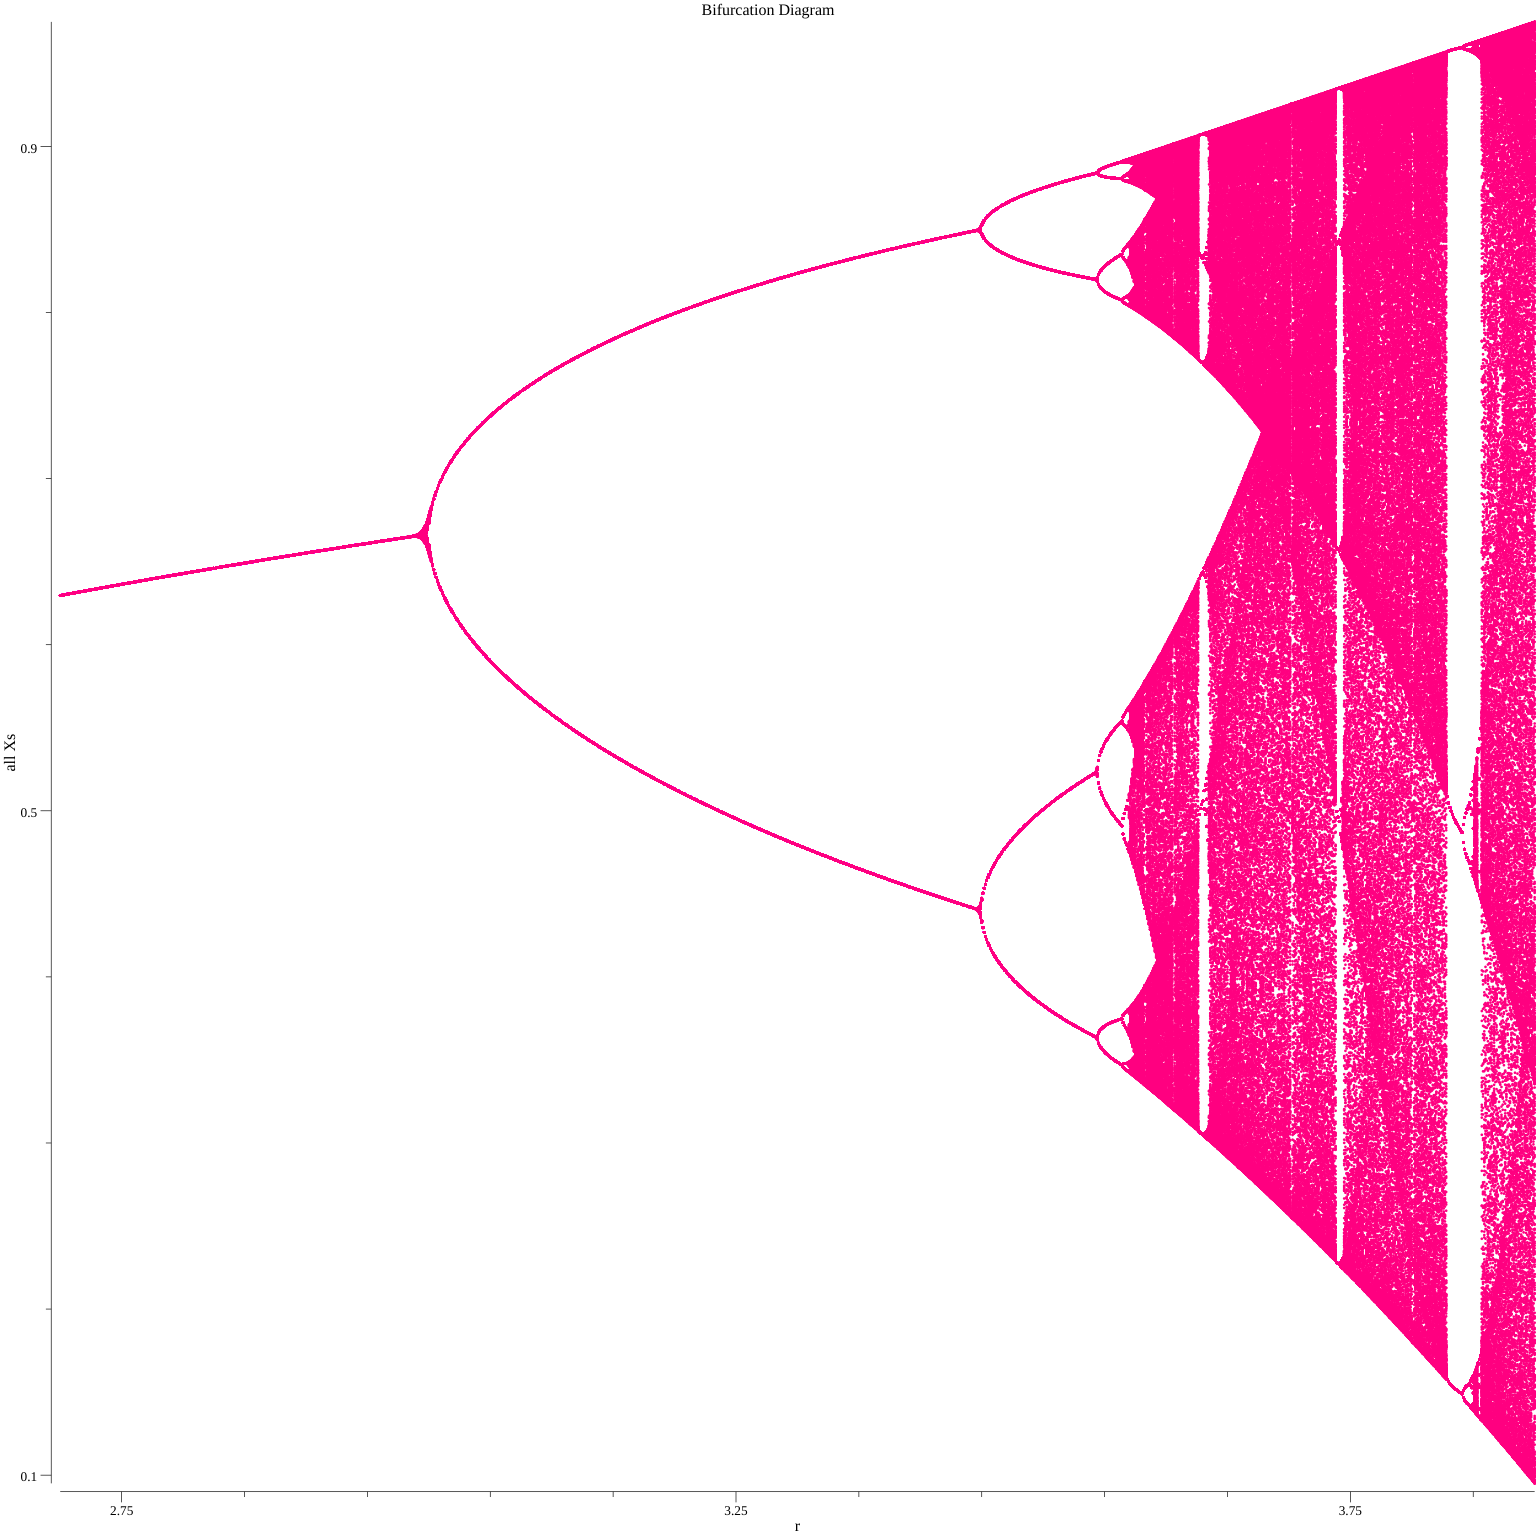
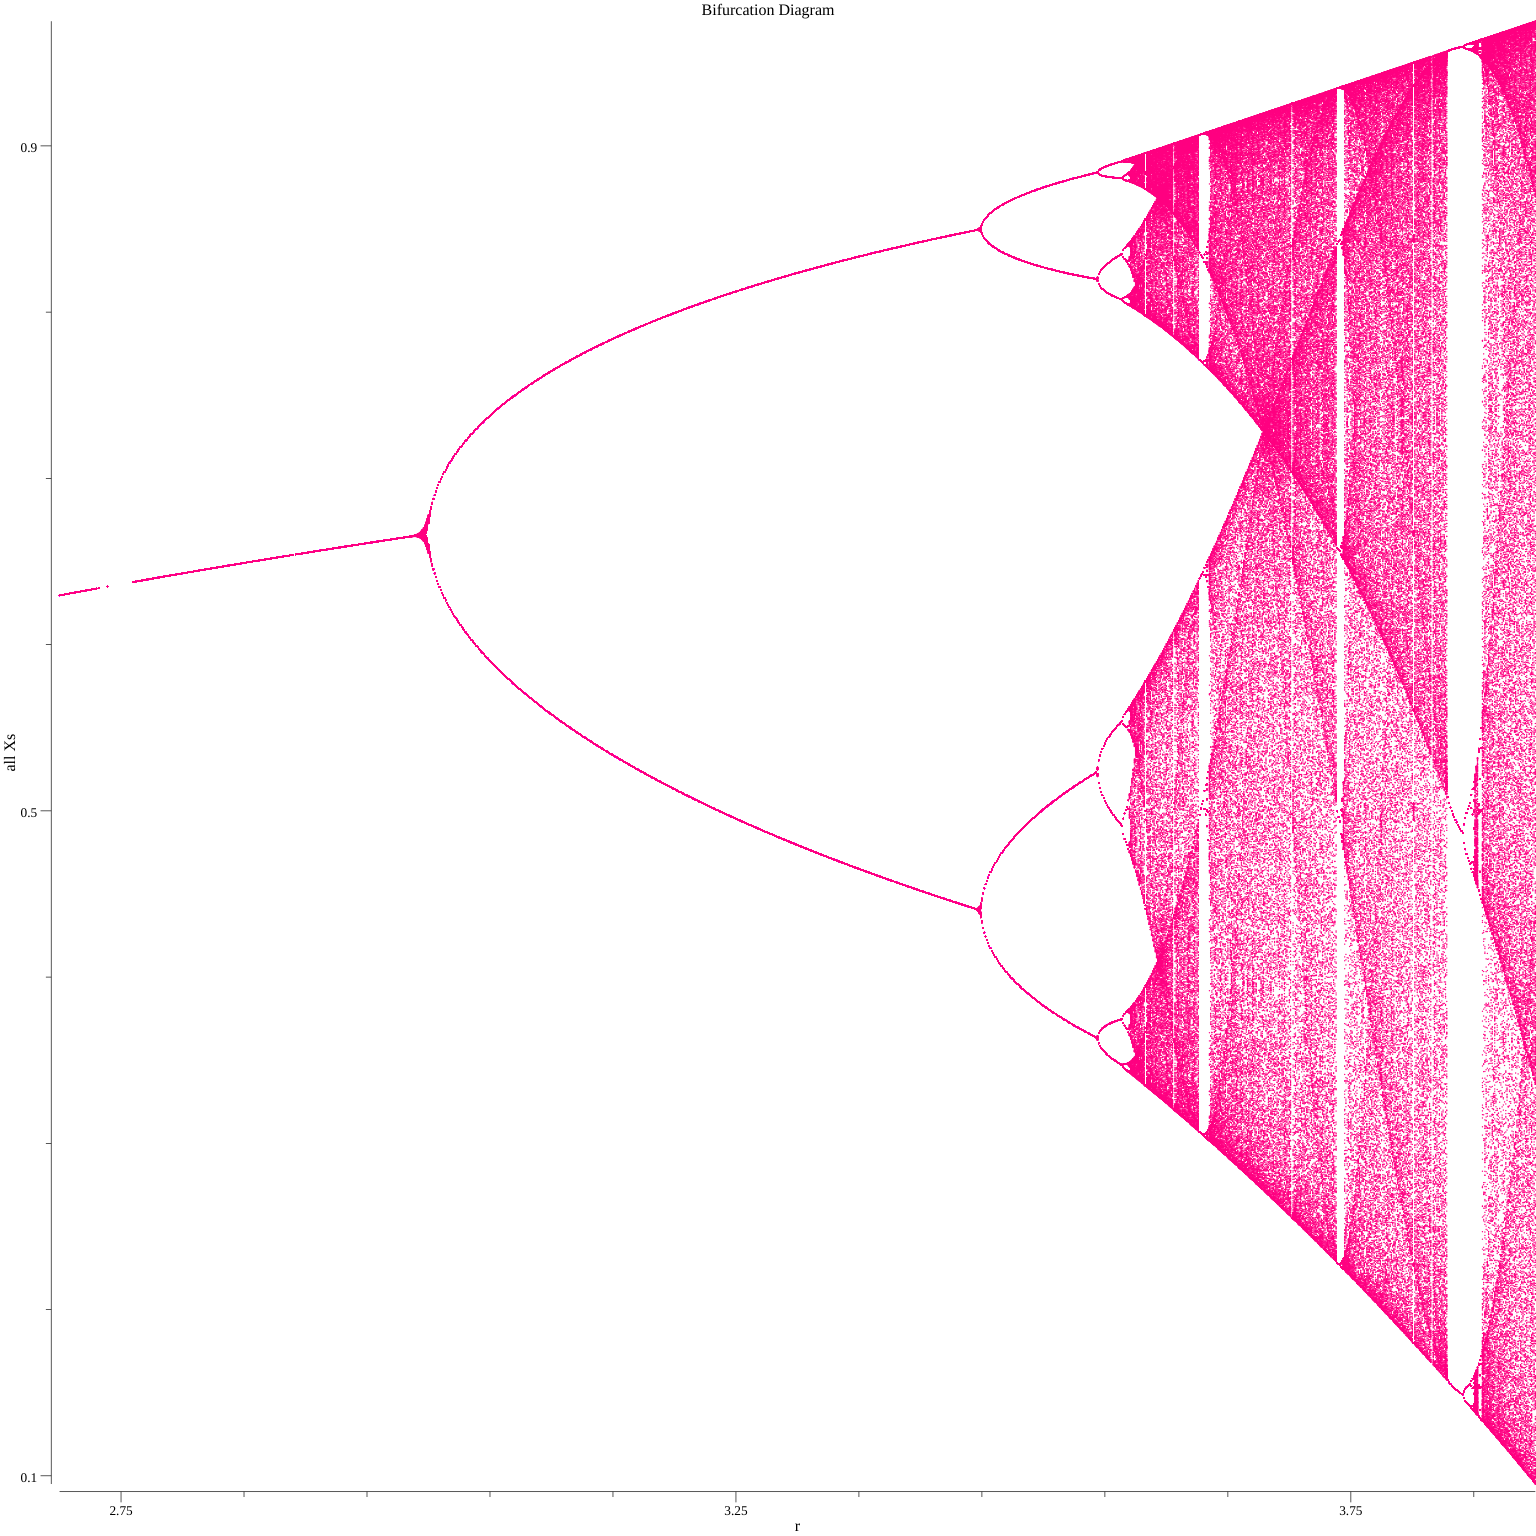
smaller pixels

Changed region(s): [[0.7188, 0.0312, 1.0, 0.9688]]

diff --git a/iterative_plot.go b/iterative_plot.go
@@ -48,7 +48,7 @@ func addPointsToPlotter(scatterData plotter.XYs, p *plot.Plot) {
 		panic(err)
 	}
 	s.GlyphStyle.Color = color.RGBA{R: 255, B: 128, A: 255}
-	s.GlyphStyle.Radius = vg.Points(1)
+	s.GlyphStyle.Radius = vg.Points(0.5)
 	s.GlyphStyle.Shape = draw.CircleGlyph{}
 
 	// Add the plotters to the plot, with a legend
